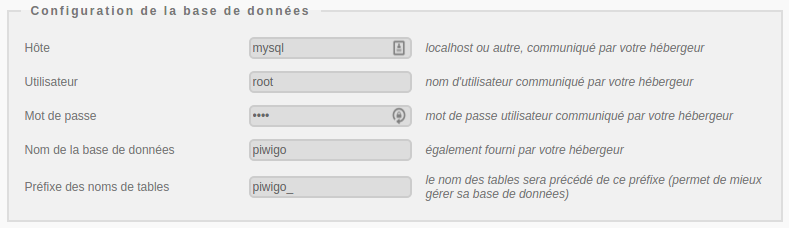
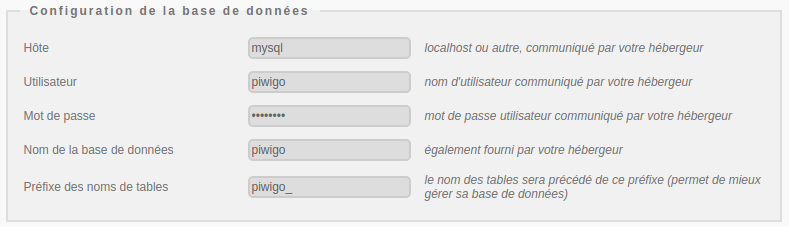
Changing details in ReadMe files

diff --git a/blueprint-coreos-lamp/README.md b/blueprint-coreos-lamp/README.md
@@ -64,7 +64,7 @@ Une fois ceci fait, les outils de ligne de commande d'OpenStack peuvent interagi
 
 ### Ajuster les paramètres
 
-Dans le fichier `blueprint-coreos-lamp.heat.yml` vous trouverez en haut une section `parameters`. Le seul paramètre obligatoire à ajuster est celui nommé `keypair_name` dont la valeur `default` doit contenir le nom d'une paire de clés valide dans votre compte utilisateur. Vous devrez aussi saisir le mot de passe qui sera donné au compte `root` du serveur FTP et de votre base `MySQL`.
+Dans le fichier `blueprint-coreos-lamp.heat.yml` vous trouverez en haut une section `parameters`. Le seul paramètre obligatoire à ajuster est celui nommé `keypair_name` dont la valeur `default` doit contenir le nom d'une paire de clés valide dans votre compte utilisateur. Vous devrez aussi saisir le mot de passe qui sera donné au compte `lamp` du serveur FTP et de votre base `MySQL`.
 C'est dans ce même fichier que vous pouvez ajuster la taille de l'instance par le paramètre `flavor`.
 
  ~~~ yaml
@@ -95,7 +95,7 @@ parameters:
           - n1.cw.standard-16
 
   pass:
-    description: password root ftp and sql
+    description: "password ftp et sql (user: lamp)"
     type: string
     hidden: true
 [...]
@@ -151,7 +151,7 @@ Et bien si ! En utilisant la console, vous pouvez déployer LAMP :
 6.	Cliquez sur « Lancer la stack », puis cliquez sur « fichier du modèle » et sélectionnez le fichier que vous venez de sauvegarder sur votre PC, puis cliquez sur « SUIVANT »
 7.	Donnez un nom à votre stack dans le champ « Nom de la stack »
 8.	Entrez votre keypair dans le champ « keypair_name »
-9.  Donner votre passphrase qui servira pour le compte root du serveur FTP et votre base de données MySQL
+9.  Donner votre passphrase qui servira pour le compte lamp du serveur FTP et votre base de données MySQL
 10.	Choisissez la taille de votre instance parmi le menu déroulant « flavor_name » et cliquez sur « LANCER »
 
 La stack va se créer automatiquement (vous pouvez en voir la progression cliquant sur son nom). Quand tous les modules deviendront « verts », la création sera terminée. Vous pourrez alors aller dans le menu « Instances » pour découvrir l’IP flottante qui a été générée automatiquement. Ne vous reste plus qu'à vous connecter en ssh avec votre keypair.

diff --git a/blueprint-coreos-prestashop/README.md b/blueprint-coreos-prestashop/README.md
@@ -64,7 +64,7 @@ Une fois ceci fait, les outils de ligne de commande d'OpenStack peuvent interagi
 
 ### Ajuster les paramètres
 
-Dans le fichier `blueprint-coreos-prestashop.heat.yml` vous trouverez en haut une section `parameters`. Le seul paramètre obligatoire à ajuster est celui nommé `keypair_name` dont la valeur `default` doit contenir le nom d'une paire de clés valide dans votre compte utilisateur. Vous devrez aussi saisir le mot de passe qui sera donné au compte `root` de votre base `MySQL`.
+Dans le fichier `blueprint-coreos-prestashop.heat.yml` vous trouverez en haut une section `parameters`. Le seul paramètre obligatoire à ajuster est celui nommé `keypair_name` dont la valeur `default` doit contenir le nom d'une paire de clés valide dans votre compte utilisateur. Vous devrez aussi saisir le mot de passe qui sera donné au compte `prestashop` de votre base `MySQL`.
 C'est dans ce même fichier que vous pouvez ajuster la taille de l'instance par le paramètre `flavor`.
 
 ~~~ yaml
@@ -95,7 +95,7 @@ parameters:
           - n1.cw.standard-16
 
   sqlpass:
-    description: password root sql
+    description: "password sql (user: prestashop)"
     type: string
     hidden: true
 
@@ -152,7 +152,8 @@ Et bien si ! En utilisant la console, vous pouvez déployer PrestaShop :
 6.	Cliquez sur « Lancer la stack », puis cliquez sur « fichier du modèle » et sélectionnez le fichier que vous venez de sauvegarder sur votre PC, puis cliquez sur « SUIVANT »
 7.	Donnez un nom à votre stack dans le champ « Nom de la stack »
 8.	Entrez votre keypair dans le champ « keypair_name »
-9.	Choisissez la taille de votre instance parmi le menu déroulant « flavor_name » et cliquez sur « LANCER »
+9.  Donner votre passphrase qui servira pour le compte prestashop de votre base de données MySQL
+10.	Choisissez la taille de votre instance parmi le menu déroulant « flavor_name » et cliquez sur « LANCER »
 
 La stack va se créer automatiquement (vous pouvez en voir la progression cliquant sur son nom). Quand tous les modules deviendront « verts », la création sera terminée. Vous pourrez alors aller dans le menu « Instances » pour découvrir l’IP flottante qui a été générée automatiquement. Ne vous reste plus qu'à vous connecter en ssh avec votre keypair.
 

diff --git a/blueprint-coreos-piwigo/README.md b/blueprint-coreos-piwigo/README.md
@@ -64,7 +64,7 @@ Une fois ceci fait, les outils de ligne de commande d'OpenStack peuvent interagi
 
 ### Ajuster les paramètres
 
-Dans le fichier `blueprint-coreos-piwigo.heat.yml` vous trouverez en haut une section `parameters`. Le seul paramètre obligatoire à ajuster est celui nommé `keypair_name` dont la valeur `default` doit contenir le nom d'une paire de clés valide dans votre compte utilisateur. Vous devrez aussi saisir le mot de passe qui sera donné au compte `root` de votre base `MySQL`.
+Dans le fichier `blueprint-coreos-piwigo.heat.yml` vous trouverez en haut une section `parameters`. Le seul paramètre obligatoire à ajuster est celui nommé `keypair_name` dont la valeur `default` doit contenir le nom d'une paire de clés valide dans votre compte utilisateur. Vous devrez aussi saisir le mot de passe qui sera donné au compte `piwigo` de votre base `MySQL`.
 C'est dans ce même fichier que vous pouvez ajuster la taille de l'instance par le paramètre `flavor`.
 
 ~~~ yaml
@@ -95,7 +95,7 @@ parameters:
           - n1.cw.standard-16
 
   sqlpass:
-    description: password root sql
+    description: "password sql (user: piwigo)"
     type: string
     hidden: true
 
@@ -152,7 +152,8 @@ Et bien si ! En utilisant la console, vous pouvez déployer Piwigo :
 6.	Cliquez sur « Lancer la stack », puis cliquez sur « fichier du modèle » et sélectionnez le fichier que vous venez de sauvegarder sur votre PC, puis cliquez sur « SUIVANT »
 7.	Donnez un nom à votre stack dans le champ « Nom de la stack »
 8.	Entrez votre keypair dans le champ « keypair_name »
-9.	Choisissez la taille de votre instance parmi le menu déroulant « flavor_name » et cliquez sur « LANCER »
+9.  Donner votre passphrase qui servira pour le compte piwigo de votre base de données MySQL
+10.	Choisissez la taille de votre instance parmi le menu déroulant « flavor_name » et cliquez sur « LANCER »
 
 La stack va se créer automatiquement (vous pouvez en voir la progression cliquant sur son nom). Quand tous les modules deviendront « verts », la création sera terminée. Vous pourrez alors aller dans le menu « Instances » pour découvrir l’IP flottante qui a été générée automatiquement. Ne vous reste plus qu'à vous connecter en ssh avec votre keypair.
 

diff --git a/blueprint-coreos-joomla/README.md b/blueprint-coreos-joomla/README.md
@@ -64,7 +64,7 @@ Une fois ceci fait, les outils de ligne de commande d'OpenStack peuvent interagi
 
 ### Ajuster les paramètres
 
-Dans le fichier `blueprint-coreos-joomla.heat.yml` vous trouverez en haut une section `parameters`. Le seul paramètre obligatoire à ajuster est celui nommé `keypair_name` dont la valeur `default` doit contenir le nom d'une paire de clés valide dans votre compte utilisateur. Vous devrez aussi saisir le mot de passe qui sera donné au compte `root` de votre base `MySQL`.
+Dans le fichier `blueprint-coreos-joomla.heat.yml` vous trouverez en haut une section `parameters`. Le seul paramètre obligatoire à ajuster est celui nommé `keypair_name` dont la valeur `default` doit contenir le nom d'une paire de clés valide dans votre compte utilisateur. Vous devrez aussi saisir le mot de passe qui sera donné au compte `joomla` de votre base `MySQL`.
 C'est dans ce même fichier que vous pouvez ajuster la taille de l'instance par le paramètre `flavor`.
 
 ~~~ yaml
@@ -95,7 +95,7 @@ parameters:
           - n1.cw.standard-16
 
   sqlpass:
-    description: password root sql
+    description: "password sql (user: joomla)"
     type: string
     hidden: true
 [...]
@@ -151,7 +151,7 @@ Et bien si ! En utilisant la console, vous pouvez déployer Joomla! :
 6.	Cliquez sur « Lancer la stack », puis cliquez sur « fichier du modèle » et sélectionnez le fichier que vous venez de sauvegarder sur votre PC, puis cliquez sur « SUIVANT »
 7.	Donnez un nom à votre stack dans le champ « Nom de la stack »
 8.	Entrez votre keypair dans le champ « keypair_name »
-9.  Donner votre passphrase qui servira pour le compte root de votre base de données MySQL
+9.  Donner votre passphrase qui servira pour le compte joomla de votre base de données MySQL
 10.	Choisissez la taille de votre instance parmi le menu déroulant « flavor_name » et cliquez sur « LANCER »
 
 La stack va se créer automatiquement (vous pouvez en voir la progression cliquant sur son nom). Quand tous les modules deviendront « verts », la création sera terminée. Vous pourrez alors aller dans le menu « Instances » pour découvrir l’IP flottante qui a été générée automatiquement. Ne vous reste plus qu'à vous connecter en ssh avec votre keypair.

diff --git a/blueprint-coreos-piwik/README.md b/blueprint-coreos-piwik/README.md
@@ -64,7 +64,7 @@ Une fois ceci fait, les outils de ligne de commande d'OpenStack peuvent interagi
 
 ### Ajuster les paramètres
 
-Dans le fichier `blueprint-coreos-piwik.heat.yml` vous trouverez en haut une section `parameters`. Le seul paramètre obligatoire à ajuster est celui nommé `keypair_name` dont la valeur `default` doit contenir le nom d'une paire de clés valide dans votre compte utilisateur. Vous devrez aussi saisir le mot de passe qui sera donné au compte `root` de votre base `MySQL`.
+Dans le fichier `blueprint-coreos-piwik.heat.yml` vous trouverez en haut une section `parameters`. Le seul paramètre obligatoire à ajuster est celui nommé `keypair_name` dont la valeur `default` doit contenir le nom d'une paire de clés valide dans votre compte utilisateur. Vous devrez aussi saisir le mot de passe qui sera donné au compte `piwik` de votre base `MySQL`.
 C'est dans ce même fichier que vous pouvez ajuster la taille de l'instance par le paramètre `flavor`.
 
  ~~~ yaml
@@ -95,7 +95,7 @@ parameters:
           - n1.cw.standard-16
 
   sqlpass:
-    description: password root sql
+    description: "password sql (user: piwik)"
     type: string
     hidden: true
 [...]
@@ -151,7 +151,7 @@ Et bien si ! En utilisant la console, vous pouvez déployer Piwik :
 6.	Cliquez sur « Lancer la stack », puis cliquez sur « fichier du modèle » et sélectionnez le fichier que vous venez de sauvegarder sur votre PC, puis cliquez sur « SUIVANT »
 7.	Donnez un nom à votre stack dans le champ « Nom de la stack »
 8.	Entrez votre keypair dans le champ « keypair_name »
-9.  Donner votre passphrase qui servira pour le compte root de votre base de données MySQL
+9.  Donner votre passphrase qui servira pour le compte piwik de votre base de données MySQL
 10.	Choisissez la taille de votre instance parmi le menu déroulant « flavor_name » et cliquez sur « LANCER »
 
 La stack va se créer automatiquement (vous pouvez en voir la progression cliquant sur son nom). Quand tous les modules deviendront « verts », la création sera terminée. Vous pourrez alors aller dans le menu « Instances » pour découvrir l’IP flottante qui a été générée automatiquement. Ne vous reste plus qu'à vous connecter en ssh avec votre keypair.

diff --git a/blueprint-coreos-lamp/README_EN.md b/blueprint-coreos-lamp/README_EN.md
@@ -64,7 +64,7 @@ Once this done, the Openstack command line tools can interact with your Cloudwat
 
 ### Adjust the parameters
 
-With the `blueprint-coreos-lamp.heat.yml` file, you will find at the top a section named `parameters`. The sole mandatory parameter to adjust is the one called `keypair_name`. Its `default` value must contain a valid keypair with regards to your Cloudwatt user account.You will also enter the `root` password account of the FTP server and your `MySQL` database. This is within this same file that you can adjust the instance size by playing with the `flavor` parameter.
+With the `blueprint-coreos-lamp.heat.yml` file, you will find at the top a section named `parameters`. The sole mandatory parameter to adjust is the one called `keypair_name`. Its `default` value must contain a valid keypair with regards to your Cloudwatt user account.You will also enter the `lamp` password account of the FTP server and your `MySQL` database. This is within this same file that you can adjust the instance size by playing with the `flavor` parameter.
 
 ~~~ yaml
 heat_template_version: 2013-05-23
@@ -94,7 +94,7 @@ parameters:
           - n1.cw.standard-16
 
   pass:
-    description: password root ftp and sql
+    description: "password ftp et sql (user: lamp)"
     type: string
     hidden: true
 [...]
@@ -150,7 +150,7 @@ parameters:
  6.	Click on « Launch stack », then « Template file » and select the file you just saved to your PC, and finally click on « NEXT »
  7.	Name your stack in the « Stack name » field
  8.	Enter the name of your keypair in the « SSH Keypair » field
- 9.  Write a passphrase that will be used for the FTP server and the database root user
+ 9.  Write a passphrase that will be used for the FTP server and the database lamp user
  10.	Choose your instance size using the « Instance Type » dropdown and click on « LAUNCH »
 
  The stack will be automatically generated (you can see its progress by clicking on its name). When all modules become green, the creation will be complete. You can then go to the "Instances" menu to find the floating IP, or simply refresh the current page and check the Overview tab for a handy link.

diff --git a/blueprint-coreos-joomla/README_EN.md b/blueprint-coreos-joomla/README_EN.md
@@ -65,7 +65,7 @@ Once this done, the Openstack command line tools can interact with your Cloudwat
 
 ### Adjust the parameters
 
-With the `blueprint-coreos-joomla.heat.yml` file, you will find at the top a section named `parameters`. The sole mandatory parameter to adjust is the one called `keypair_name`. Its `default` value must contain a valid keypair with regards to your Cloudwatt user account.You will also enter the `root` password account of your `MySQL` database. This is within this same file that you can adjust the instance size by playing with the `flavor` parameter.
+With the `blueprint-coreos-joomla.heat.yml` file, you will find at the top a section named `parameters`. The sole mandatory parameter to adjust is the one called `keypair_name`. Its `default` value must contain a valid keypair with regards to your Cloudwatt user account.You will also enter the `joomla` password account of your `MySQL` database. This is within this same file that you can adjust the instance size by playing with the `flavor` parameter.
 
 ~~~ yaml
 heat_template_version: 2013-05-23
@@ -95,7 +95,7 @@ parameters:
           - n1.cw.standard-16
 
   sqlpass:
-    description: password root sql
+    description: "password sql (user: joomla)"
     type: string
     hidden: true
 [...]
@@ -151,7 +151,7 @@ parameters:
  6.	Click on « Launch stack », then « Template file » and select the file you just saved to your PC, and finally click on « NEXT »
  7.	Name your stack in the « Stack name » field
  8.	Enter the name of your keypair in the « SSH Keypair » field
- 9.  Write a passphrase that will be used for the database root user
+ 9.  Write a passphrase that will be used for the database joomla user
  10.	Choose your instance size using the « Instance Type » dropdown and click on « LAUNCH »
 
  The stack will be automatically generated (you can see its progress by clicking on its name). When all modules become green, the creation will be complete. You can then go to the "Instances" menu to find the floating IP, or simply refresh the current page and check the Overview tab for a handy link.

diff --git a/blueprint-coreos-piwik/README_EN.md b/blueprint-coreos-piwik/README_EN.md
@@ -64,7 +64,7 @@ Once this done, the Openstack command line tools can interact with your Cloudwat
 
 ### Adjust the parameters
 
-With the `blueprint-coreos-piwik.heat.yml` file, you will find at the top a section named `parameters`. The sole mandatory parameter to adjust is the one called `keypair_name`. Its `default` value must contain a valid keypair with regards to your Cloudwatt user account.You will also enter the `root` password account of your `MySQL` database. This is within this same file that you can adjust the instance size by playing with the `flavor` parameter.
+With the `blueprint-coreos-piwik.heat.yml` file, you will find at the top a section named `parameters`. The sole mandatory parameter to adjust is the one called `keypair_name`. Its `default` value must contain a valid keypair with regards to your Cloudwatt user account. You will also enter the `piwik` password account of your `MySQL` database. This is within this same file that you can adjust the instance size by playing with the `flavor` parameter.
 
 ~~~ yaml
 heat_template_version: 2013-05-23
@@ -94,7 +94,7 @@ parameters:
           - n1.cw.standard-16
 
   sqlpass:
-    description: password root sql
+    description: "password sql (user: piwik)"
     type: string
     hidden: true
 [...]
@@ -150,7 +150,7 @@ parameters:
  6.	Click on « Launch stack », then « Template file » and select the file you just saved to your PC, and finally click on « NEXT »
  7.	Name your stack in the « Stack name » field
  8.	Enter the name of your keypair in the « SSH Keypair » field
- 9.  Write a passphrase that will be used for the database root user
+ 9.  Write a passphrase that will be used for the database piwik user
  10.	Choose your instance size using the « Instance Type » dropdown and click on « LAUNCH »
 
  The stack will be automatically generated (you can see its progress by clicking on its name). When all modules become green, the creation will be complete. You can then go to the "Instances" menu to find the floating IP, or simply refresh the current page and check the Overview tab for a handy link.

diff --git a/blueprint-coreos-prestashop/README_EN.md b/blueprint-coreos-prestashop/README_EN.md
@@ -64,7 +64,7 @@ Once this done, the Openstack command line tools can interact with your Cloudwat
 
 ### Adjust the parameters
 
-With the `blueprint-coreos-prestashop.heat.yml` file, you will find at the top a section named `parameters`. The sole mandatory parameter to adjust is the one called `keypair_name`. Its `default` value must contain a valid keypair with regards to your Cloudwatt user account. This is within this same file that you can adjust the instance size by playing with the `flavor` parameter.
+With the `blueprint-coreos-prestashop.heat.yml` file, you will find at the top a section named `parameters`. The sole mandatory parameter to adjust is the one called `keypair_name`. Its `default` value must contain a valid keypair with regards to your Cloudwatt user account. You will also enter the `prestashop` password account of your `MySQL` database. This is within this same file that you can adjust the instance size by playing with the `flavor` parameter.
 
 ~~~ yaml
 heat_template_version: 2013-05-23
@@ -94,7 +94,7 @@ parameters:
           - n1.cw.standard-16
 
   sqlpass:
-    description: password root sql
+    description: "password sql (user: prestashop)"
     type: string
     hidden: true
 
@@ -151,7 +151,8 @@ parameters:
  6.	Click on « Launch stack », then « Template file » and select the file you just saved to your PC, and finally click on « NEXT »
  7.	Name your stack in the « Stack name » field
  8.	Enter the name of your keypair in the « SSH Keypair » field
- 9.	Choose your instance size using the « Instance Type » dropdown and click on « LAUNCH »
+ 9.  Write a passphrase that will be used for the database prestashop user
+ 10.	Choose your instance size using the « Instance Type » dropdown and click on « LAUNCH »
 
  The stack will be automatically generated (you can see its progress by clicking on its name). When all modules become green, the creation will be complete. You can then go to the "Instances" menu to find the floating IP, or simply refresh the current page and check the Overview tab for a handy link.
 

diff --git a/blueprint-coreos-piwigo/README_EN.md b/blueprint-coreos-piwigo/README_EN.md
@@ -94,7 +94,7 @@ parameters:
           - n1.cw.standard-16
 
   sqlpass:
-    description: password root sql
+    description: "password sql (user: piwigo)"
     type: string
     hidden: true
 
@@ -151,7 +151,8 @@ parameters:
  6.	Click on « Launch stack », then « Template file » and select the file you just saved to your PC, and finally click on « NEXT »
  7.	Name your stack in the « Stack name » field
  8.	Enter the name of your keypair in the « SSH Keypair » field
- 9.	Choose your instance size using the « Instance Type » dropdown and click on « LAUNCH »
+ 9.  Write a passphrase that will be used for the database piwigo user
+ 10.	Choose your instance size using the « Instance Type » dropdown and click on « LAUNCH »
 
  The stack will be automatically generated (you can see its progress by clicking on its name). When all modules become green, the creation will be complete. You can then go to the "Instances" menu to find the floating IP, or simply refresh the current page and check the Overview tab for a handy link.
 
